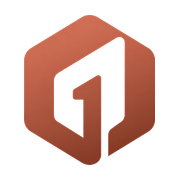
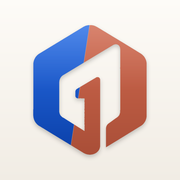
アプリのアイコン：ホームの色（オーダー・会計の青＋店舗台帳のテラコッタ）・生成りの地で暗い壁紙でも見える
2026-10-20 Ronnie「ロゴもホームで使っている色に。レジと予約の雰囲気が無い・暗くて見えない」

- 地：生成り（#fbf9f5）。黒い壁紙の上でも見える
- ロゴ：左＝オーダー・会計の青、右＝店舗台帳のテラコッタ（ホームの大きいボタン2つと同じ）。「1」は生成りの抜き
- iOS のアイコン（1024）・PWA の icon-512／icon-192／apple-icon も同じ
- 作り方：python3 ios/tools/make_app_icon.py out.png split（TOPX=0.50 BOTX=0.34 GAP=0.0001）

Claude-Session: https://claude.ai/code/session_017QbRQTVj52L7jrbPXELhHV

diff --git a/ios/tools/make_app_icon.py b/ios/tools/make_app_icon.py
@@ -1,0 +1,94 @@
+"""TENPO ONE のアプリアイコン：ホームの色（オーダー・会計の青／店舗台帳のテラコッタ）を使い、生成りの地で暗い壁紙でも見える。
+左＝青（レジ）・右＝テラコッタ（予約）。真ん中の「1」は生成りの抜き。"""
+import sys
+from PIL import Image, ImageDraw, ImageFilter
+
+MARK = '/home/claude/tenpo-one/public/logo-mark.png'
+OUT = sys.argv[1] if len(sys.argv) > 1 else '/tmp/icon.png'
+VARIANT = sys.argv[2] if len(sys.argv) > 2 else 'split'
+S = 1024
+
+def lerp(a, b, t):
+    return tuple(int(round(a[i] + (b[i] - a[i]) * t)) for i in range(3))
+
+def vgrad(size, top, bottom):
+    w, h = size
+    im = Image.new('RGB', (w, h))
+    px = im.load()
+    for y in range(h):
+        c = lerp(top, bottom, y / max(1, h - 1))
+        for x in range(w):
+            px[x, y] = c
+    return im
+
+# 地：生成り（ホームと同じ #fbf9f5）→ 下は少し濃く
+bg = vgrad((S, S), (253, 251, 247), (241, 236, 228)).convert('RGBA')
+
+# ロゴの形（アルファ）を 72% の大きさで真ん中に
+mark = Image.open(MARK).convert('RGBA')
+size = int(S * 0.72)
+mark = mark.resize((size, size), Image.LANCZOS)
+alpha = mark.split()[3]
+ox = (S - size) // 2
+oy = (S - size) // 2
+
+# 色：左＝青（オーダー・会計 #2a6fe6→#0a3fa8）・右＝テラコッタ（店舗台帳 #d0694f→#a94e37）
+blue = vgrad((size, size), (42, 111, 230), (10, 63, 168))
+terra = vgrad((size, size), (208, 105, 79), (169, 78, 55))
+
+if VARIANT == 'split':
+    # 「1」の傾きに合わせた斜めの境目（上は右寄り・下は左寄り）。間に生成りの細いすき間
+    m = Image.new('L', (size, size), 0)
+    d = ImageDraw.Draw(m)
+    import os
+    top_x = int(size * float(os.environ.get('TOPX', '0.60')))
+    bot_x = int(size * float(os.environ.get('BOTX', '0.40')))
+    d.polygon([(top_x, -10), (size + 10, -10), (size + 10, size + 10), (bot_x, size + 10)], fill=255)
+    m = m.filter(ImageFilter.GaussianBlur(1.2))
+    gap = Image.new('L', (size, size), 0)
+    dg = ImageDraw.Draw(gap)
+    dg.line([(top_x, -10), (bot_x, size + 10)], fill=255, width=int(size * float(os.environ.get('GAP', '0.035'))))
+    fill = Image.composite(terra, blue, m)
+    fill_a = Image.composite(Image.new('L', (size, size), 0), alpha, gap)
+elif VARIANT == 'blend':
+    # 左上→右下のなめらかな変わり目（青→テラコッタ）
+    m = Image.new('L', (size, size), 0)
+    px = m.load()
+    for y in range(size):
+        for x in range(size):
+            t = (x * 0.75 + y * 0.25) / size
+            t = min(1, max(0, (t - 0.38) / 0.24))
+            px[x, y] = int(t * 255)
+    fill = Image.composite(terra, blue, m)
+    fill_a = alpha
+else:
+    fill = terra
+    fill_a = alpha
+
+# 影（うっすら）
+shadow = Image.new('RGBA', (S, S), (0, 0, 0, 0))
+sh = Image.new('RGBA', (size, size), (0, 0, 0, 0))
+sh.putalpha(fill_a.point(lambda v: int(v * 0.22)))
+shadow.alpha_composite(sh, (ox, oy + int(S * 0.012)))
+shadow = shadow.filter(ImageFilter.GaussianBlur(int(S * 0.012)))
+bg.alpha_composite(shadow)
+
+layer = Image.new('RGBA', (S, S), (0, 0, 0, 0))
+f = fill.convert('RGBA')
+f.putalpha(fill_a)
+# 上に薄い光
+gloss = Image.new('RGBA', (size, size), (0, 0, 0, 0))
+gl = vgrad((size, size), (255, 255, 255), (255, 255, 255)).convert('RGBA')
+ga = Image.new('L', (size, size), 0)
+gp = ga.load()
+for y in range(size):
+    v = max(0, 0.18 - y / size * 0.36)
+    for x in range(size):
+        gp[x, y] = int(v * 255)
+gl.putalpha(ga)
+gl = Image.composite(gl, Image.new('RGBA', (size, size), (0, 0, 0, 0)), fill_a)
+f.alpha_composite(gl)
+layer.alpha_composite(f, (ox, oy))
+bg.alpha_composite(layer)
+bg.convert('RGB').save(OUT, 'PNG')
+print('saved', OUT, VARIANT)
